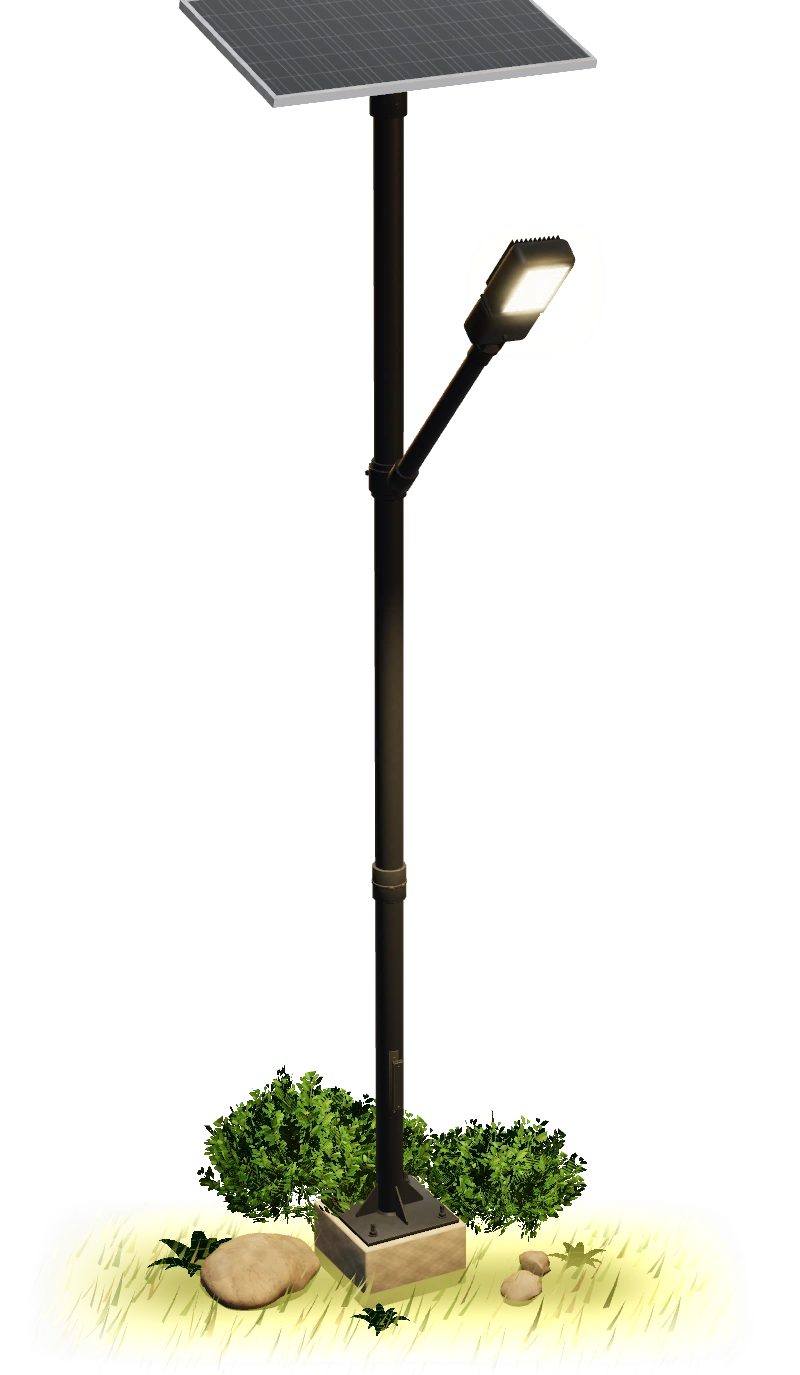
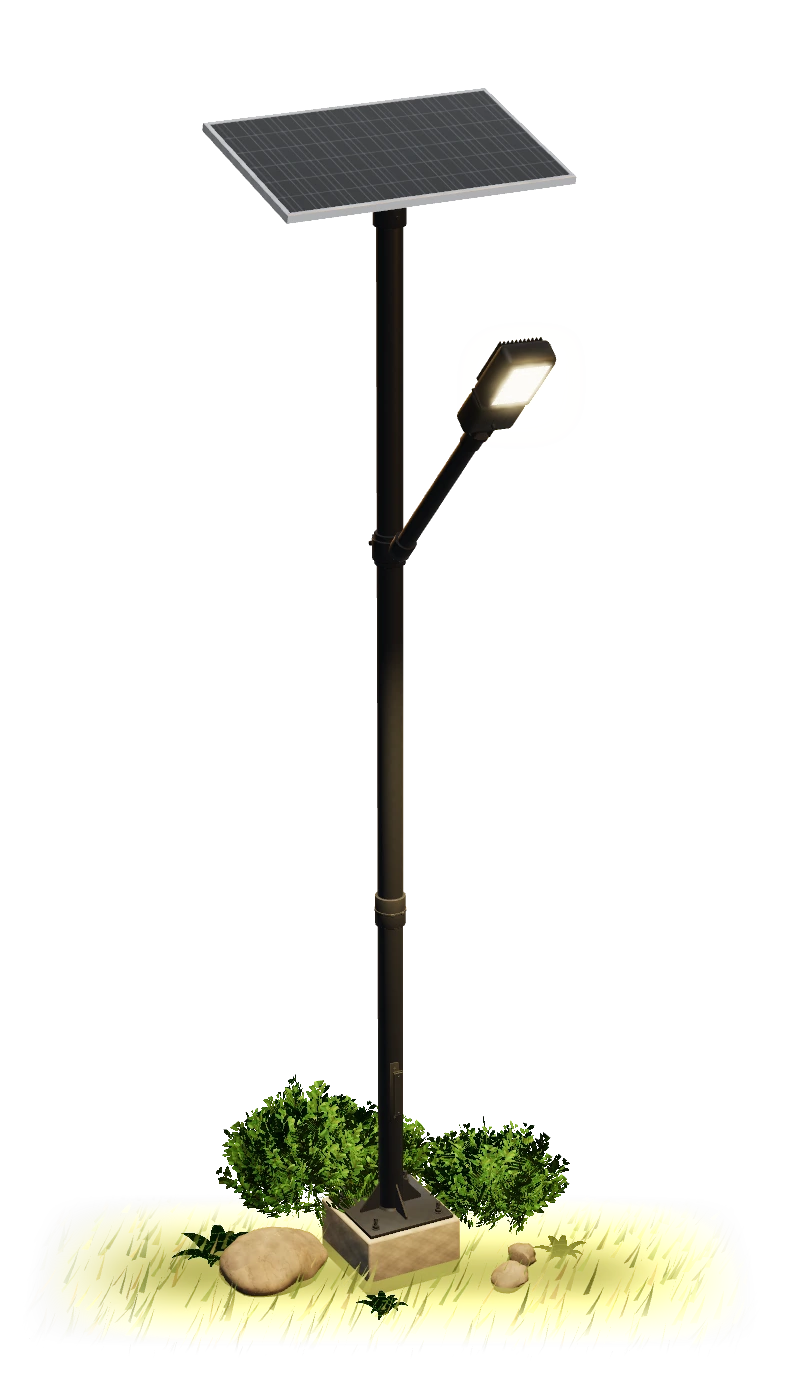
Mobile: 3D on Brave/privacy browsers, even Why SSG cards, full street light in the fallback image
- Drop the CPU-core check from the low-end-phone test: Brave reports a fake low core count,
  so iPhones got the static images (no 3D street light, panel never flew)
- Why SSG cards: minmax(0,1fr) columns (Safari let a column push past the screen edge) and
  flex cards so both cards in a row are the same height
- Phone / no-WebGL fallback street light re-rendered with headroom: the tilted panel's top was cut

Changed region(s): [[0.0938, 0.4276, 0.875, 1.0], [0.2188, 0.0, 0.75, 0.4276]]

diff --git a/website/index.html b/website/index.html
@@ -88,7 +88,7 @@
 
   <link rel="stylesheet" href="css/reset.css?v=34">
   <link rel="stylesheet" href="css/tokens.css?v=about-1">
-  <link rel="stylesheet" href="css/main.css?v=mobile-1">
+  <link rel="stylesheet" href="css/main.css?v=mobile-2">
 
   <script type="importmap">
   {
@@ -274,7 +274,7 @@
 
       <!-- DOM anchor for the 3D street light (static image is the no-WebGL / mobile fallback) -->
       <div class="anchor anchor--streetlight" id="anchor-streetlight">
-        <img class="anchor__fallback" src="assets/01-hero/streetlight-fallback.webp?v=land-1" width="800" height="1375" alt="SSG solar street light with an LED head and a solar panel, standing on a grass island" fetchpriority="high">
+        <img class="anchor__fallback" src="assets/01-hero/streetlight-fallback.webp?v=land-2" width="800" height="1375" alt="SSG solar street light with an LED head and a solar panel, standing on a grass island" fetchpriority="high">
       </div>
 
       <!-- Callouts: leader lines are drawn in JS from the model's projected points -->
@@ -796,13 +796,13 @@
 <script src="https://cdn.jsdelivr.net/npm/gsap@3.13.0/dist/CustomEase.min.js" defer></script>
 <script src="https://cdn.jsdelivr.net/npm/lenis@1.3.4/dist/lenis.min.js" defer></script>
 <script src="js/core.js?v=about-1" defer></script>
-<script src="js/scene.js?v=mobile-1" defer></script>
+<script src="js/scene.js?v=mobile-2" defer></script>
 <script src="js/intro.js?v=mobile-1" defer></script>
 <script src="js/products.js?v=dusk-a" defer></script>
 <script src="js/process.js?v=mobile-1" defer></script>
 <script src="js/flag.js?v=dusk-a" defer></script>
 <script src="js/scanlines.js?v=mobile-1" defer></script>
-<script src="js/main.js?v=mobile-1" defer></script>
+<script src="js/main.js?v=mobile-2" defer></script>
 <script>
   // Safety net: never leave visitors on the preloader if a script fails to load
   setTimeout(function () {

diff --git a/website/css/main.css b/website/css/main.css
@@ -874,9 +874,11 @@ html:not(.js) .tile__img { background-image: url("../assets/03-mission/image.web
   .why__rule { width: 40px; }
   .solar-grid { display: none; }
   .anchor--panel-why { position: relative; left: auto; top: auto; width: 100%; height: auto; aspect-ratio: 2 / 1; margin: 8px 0; }
-  .why__cards { position: static; display: grid; grid-template-columns: 1fr 1fr; gap: 12px; }
-  .card { position: relative; left: auto !important; top: auto !important; width: auto; height: auto; min-height: 150px; }
-  .card > article { padding: 14px; }
+  /* minmax(0, 1fr): a long word can't push a column past the screen edge (Safari sizes plain 1fr
+     to its content); flex makes each card's box fill the row, so both cards in a row match */
+  .why__cards { position: static; display: grid; grid-template-columns: repeat(2, minmax(0, 1fr)); gap: 12px; align-items: stretch; }
+  .card { position: relative; left: auto !important; top: auto !important; width: auto; height: auto; min-height: 150px; min-width: 0; display: flex; flex-direction: column; }
+  .card > article { padding: 14px; flex: 1 1 auto; height: auto; min-width: 0; overflow-wrap: break-word; }
   .card__kicker { font-size: 13px; }
   .card__icon { width: 24px; height: 22px; }
   .card__title { font-size: 13px; margin-top: 12px; }

diff --git a/website/js/scene.js b/website/js/scene.js
@@ -685,8 +685,10 @@ function buildScene(libs, { canvas, anchors, reducedMotion = false, onProgress =
       rp: panelRig.position.clone(), rq: panelRig.quaternion.clone(), rs: panelRig.scale.clone(),
     };
     // the rest pose the hero shows once the load-in has finished
-    lightPivot.position.set(0, 0, 0);
-    lightPivot.scale.setScalar(vH / modelSize.y);
+    // a little smaller than the frame and nudged down: the light leans back, so at full height
+    // the solar panel's top edge would be cut off by the top of the picture
+    lightPivot.position.set(0, -vH * 0.035, 0);
+    lightPivot.scale.setScalar((vH / modelSize.y) * 0.9);
     lightTilt.rotation.set(LIGHT_TILT, LIGHT_YAW, 0);
     lightPivot.updateMatrixWorld(true);
     updateLandFade();

diff --git a/website/js/main.js b/website/js/main.js
@@ -64,9 +64,9 @@ function hasWebGL() {
 }
 // Phones get the live street light too, unless the device is low-end, saving data or
 // rendering WebGL in software: those keep the static images (same layout, no GPU cost)
+// (no CPU-core check: Brave and other privacy browsers report a fake, often low, core count)
 const lowEndPhone = mobile && (
-  (navigator.deviceMemory && navigator.deviceMemory < 4) ||
-  (navigator.hardwareConcurrency && navigator.hardwareConcurrency < 4) ||
+  (navigator.deviceMemory && navigator.deviceMemory < 3) ||
   navigator.connection?.saveData);
 const use3D = !lowEndPhone && hasWebGL() && !(mobile && softwareGL);
 if (!use3D) root.classList.add('no-webgl');
